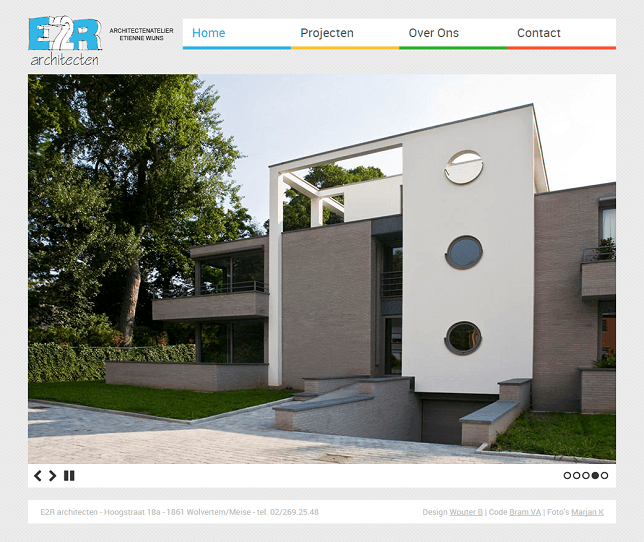
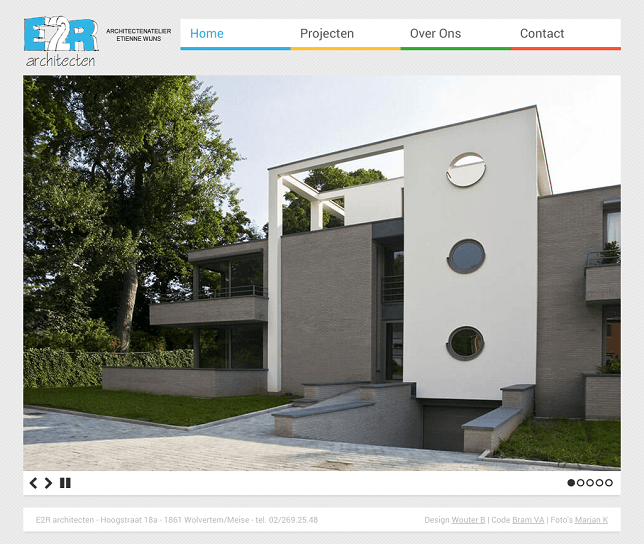
HTML5 compliance fixes
and other small fixes

diff --git a/projects.html b/projects.html
@@ -4,6 +4,7 @@
 	<meta charset="UTF-8">
 	<meta name="viewport" content="width=device-width, initial-scale=1.0, maximum-scale=1.0, user-scalable=0">
 	<title>Projects | Bram Van Aken</title>
+	<style>body{background:url(data/img-bg.jpg) no-repeat center center fixed;background-size:cover}</style>
 </head>
 <body>
 	<h1>BRAM VAN AKEN</h1>
@@ -29,13 +30,14 @@
 		</dl>
 	</section>
 	<div class="image">
-		<a href="http://e2r-architecten.be/"><img src="data/img-e2r.png" alt="E2R Architecten website" height="542" /></a>
+		<a href="http://e2r-architecten.be/"><img src="data/img-e2r.png" alt="E2R Architecten website" height="544" /></a>
 	</div>
 	<section>
 		<h3>D-sign Ontwerpbureau</h3>
 		<dl class="cf">
+			<!-- Site offline
 			<dt>Link</dt>
-			<dd><a href="http://dsign-ontwerp.be/">dsign-ontwerp.be</a></dd>
+			<dd><a href="http://dsign-ontwerp.be/">dsign-ontwerp.be</a></dd>-->
 			<dt>Code</dt>
 			<dd>HTML5/CSS3</dd>
 			<dt>Scripting</dt>
@@ -45,14 +47,14 @@
 		</dl>
 	</section>
 	<div class="image">
-		<a href="http://dsign-ontwerp.be/"><img src="data/img-dsign.png" alt="D-sign ontwerp website" height="390" /></a>
+		<!--<a href="http://dsign-ontwerp.be/"><img src="data/img-dsign.png" alt="D-sign ontwerp website" height="723" /></a>-->
+		<a href="dsign/index.html"><img src="data/img-dsign.png" alt="D-sign ontwerp website" height="723" /></a>
 	</div>
 	<section>
 		<a class="largelink" href="//github.com/BramVanAken"><img class="valign" src="data/img-github.png" alt="GitHub" width="50" height="50" />&nbsp;&nbsp;&nbsp;Find me on GitHub</a>
 	</section>
-	<style>body{background:url(data/img-bg.jpg) no-repeat center center fixed;background-size:cover}</style>
-	<link rel="stylesheet" href="data/style-main.css">
-	<link rel="stylesheet" href="//fonts.googleapis.com/css?family=Roboto:400,100">
+	<link rel="stylesheet" property="stylesheet" href="data/style-main.css">
+	<link rel="stylesheet" property="stylesheet" href="//fonts.googleapis.com/css?family=Roboto:400,100">
 	<!--[if lt IE 9]><script src="data/js-html5shiv.js"></script><![endif]-->
 </body>
 </html>

diff --git a/about.html b/about.html
@@ -4,6 +4,7 @@
 	<meta charset="UTF-8">
 	<meta name="viewport" content="width=device-width, initial-scale=1.0, maximum-scale=1.0, user-scalable=0">
 	<title>About me | Bram Van Aken</title>
+	<style>body{background:url(data/img-bg.jpg) no-repeat center center fixed;background-size:cover}</style>
 </head>
 <body>
 	<h1>BRAM VAN AKEN</h1>
@@ -20,9 +21,8 @@
 		<p>Test</p>
 		<p>Test</p>
 	</section>
-	<style>body{background:url(data/img-bg.jpg) no-repeat center center fixed;background-size:cover}</style>
-	<link rel="stylesheet" href="data/style-main.css">
-	<link rel="stylesheet" href="//fonts.googleapis.com/css?family=Roboto:400,100">
+	<link rel="stylesheet" property="stylesheet" href="data/style-main.css">
+	<link rel="stylesheet" property="stylesheet" href="//fonts.googleapis.com/css?family=Roboto:400,100">
 	<!--[if lt IE 9]><script src="data/js-html5shiv.js"></script><![endif]-->
 </body>
 </html>

diff --git a/index.html b/index.html
@@ -4,6 +4,7 @@
 	<meta charset="UTF-8">
 	<meta name="viewport" content="width=device-width, initial-scale=1.0, maximum-scale=1.0, user-scalable=0">
 	<title>Bram Van Aken</title>
+	<style>body{background:url(data/img-bg.jpg) no-repeat center center fixed;background-size:cover}</style>
 </head>
 <body>
 	<h1>BRAM VAN AKEN</h1>
@@ -20,9 +21,8 @@
 		<p>Test</p>
 		<p>Test</p>
 	</section>
-	<style>body{background:url(data/img-bg.jpg) no-repeat center center fixed;background-size:cover}</style>
-	<link rel="stylesheet" href="data/style-main.css">
-	<link rel="stylesheet" href="//fonts.googleapis.com/css?family=Roboto:400,100">
+	<link rel="stylesheet" property="stylesheet" href="data/style-main.css">
+	<link rel="stylesheet" property="stylesheet" href="//fonts.googleapis.com/css?family=Roboto:400,100">
 	<!--[if lt IE 9]><script src="data/js-html5shiv.js"></script><![endif]-->
 </body>
 </html>

diff --git a/contact.php b/contact.php
@@ -4,6 +4,8 @@
 	<meta charset="UTF-8">
 	<meta name="viewport" content="width=device-width, initial-scale=1.0, maximum-scale=1.0, user-scalable=0">
 	<title>Contact | Bram Van Aken</title>
+	<style>body{background:url(data/img-bg.jpg) no-repeat center center fixed;background-size:cover}</style>
+	<style>.social a{float:left;height:50px;width:50px;text-indent:100%;white-space:nowrap;overflow:hidden;background:url(data/img-sm.png)}#fb,#gp,#tw,#li{margin-right:10px}#fb{background-position:0 0}#gp{background-position:-50px 0}#tw{background-position:-100px 0}#li{background-position:-150px 0}</style>
 </head>
 <body>
 	<h1>BRAM VAN AKEN</h1>
@@ -34,14 +36,12 @@
 	</section>
 	<section class="social cf">
 		<a href="//facebook.com/bram.van.aken" id="fb">Facebook</a>
-		<a href="//plus.google.com/+BramVanAken"id="gp">Google Plus</a>
+		<a href="//plus.google.com/+BramVanAken" id="gp">Google Plus</a>
 		<a href="//twitter.com/VanAkenBram" id="tw">Twitter</a>
 		<a href="//linkedin.com/in/bramva" id="li">LinkedIn</a>
 	</section>
-	<style>body{background:url(data/img-bg.jpg) no-repeat center center fixed;background-size:cover}</style>
-	<link rel="stylesheet" href="data/style-main.css">
-	<link rel="stylesheet" href="//fonts.googleapis.com/css?family=Roboto:400,100">
-	<style>.social a{float:left;height:50px;width:50px;text-indent:100%;white-space:nowrap;overflow:hidden;background:url(data/img-sm.png)}#fb,#gp,#tw,#li{margin-right:10px}#fb{background-position:0 0}#gp{background-position:-50px 0}#tw{background-position:-100px 0}#li{background-position:-150px 0}</style>
+	<link rel="stylesheet" property="stylesheet" href="data/style-main.css">
+	<link rel="stylesheet" property="stylesheet" href="//fonts.googleapis.com/css?family=Roboto:400,100">
 	<!--[if lt IE 9]><script src="data/js-html5shiv.js"></script><![endif]-->
 </body>
 </html>
